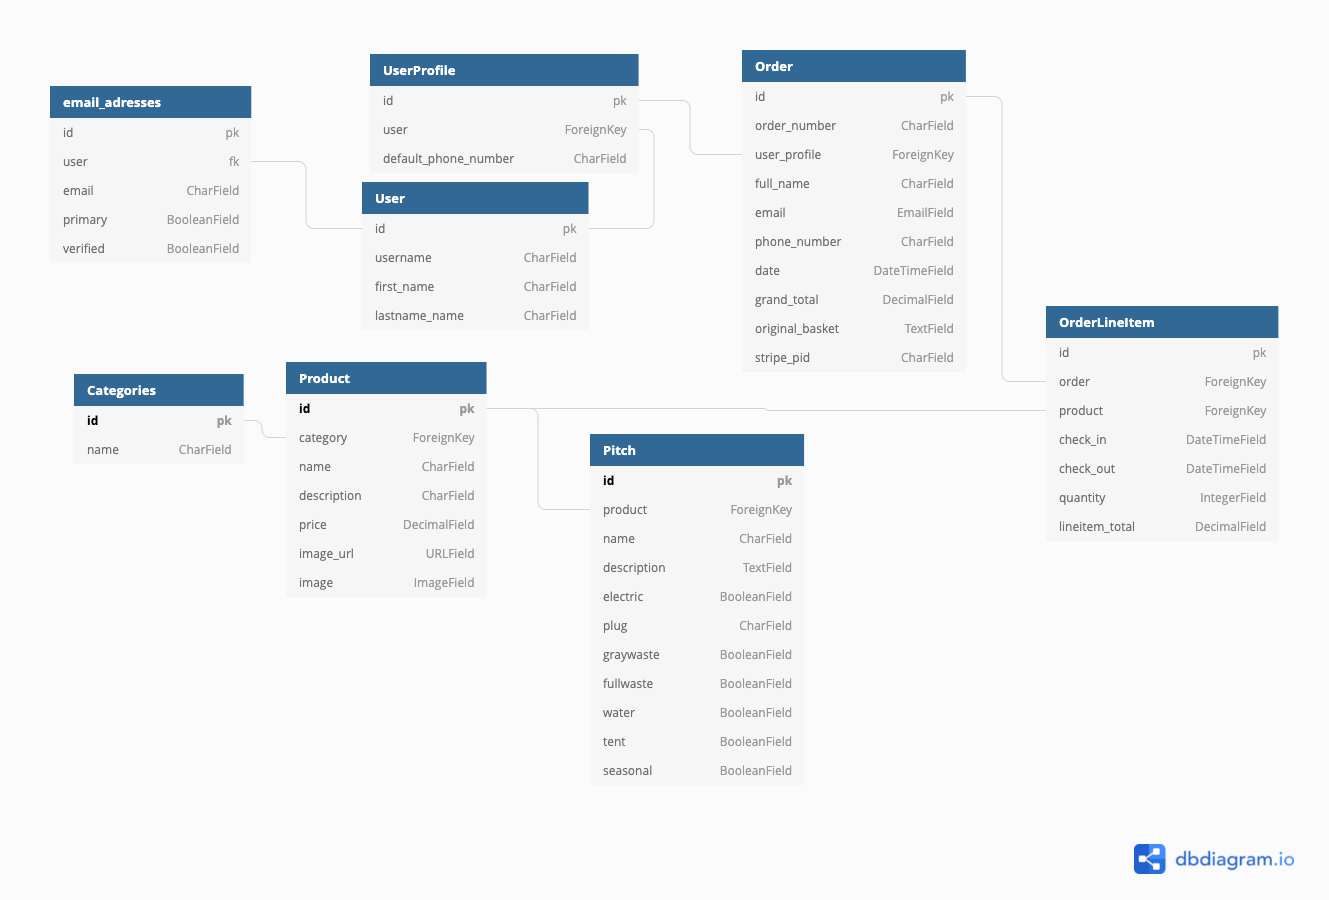
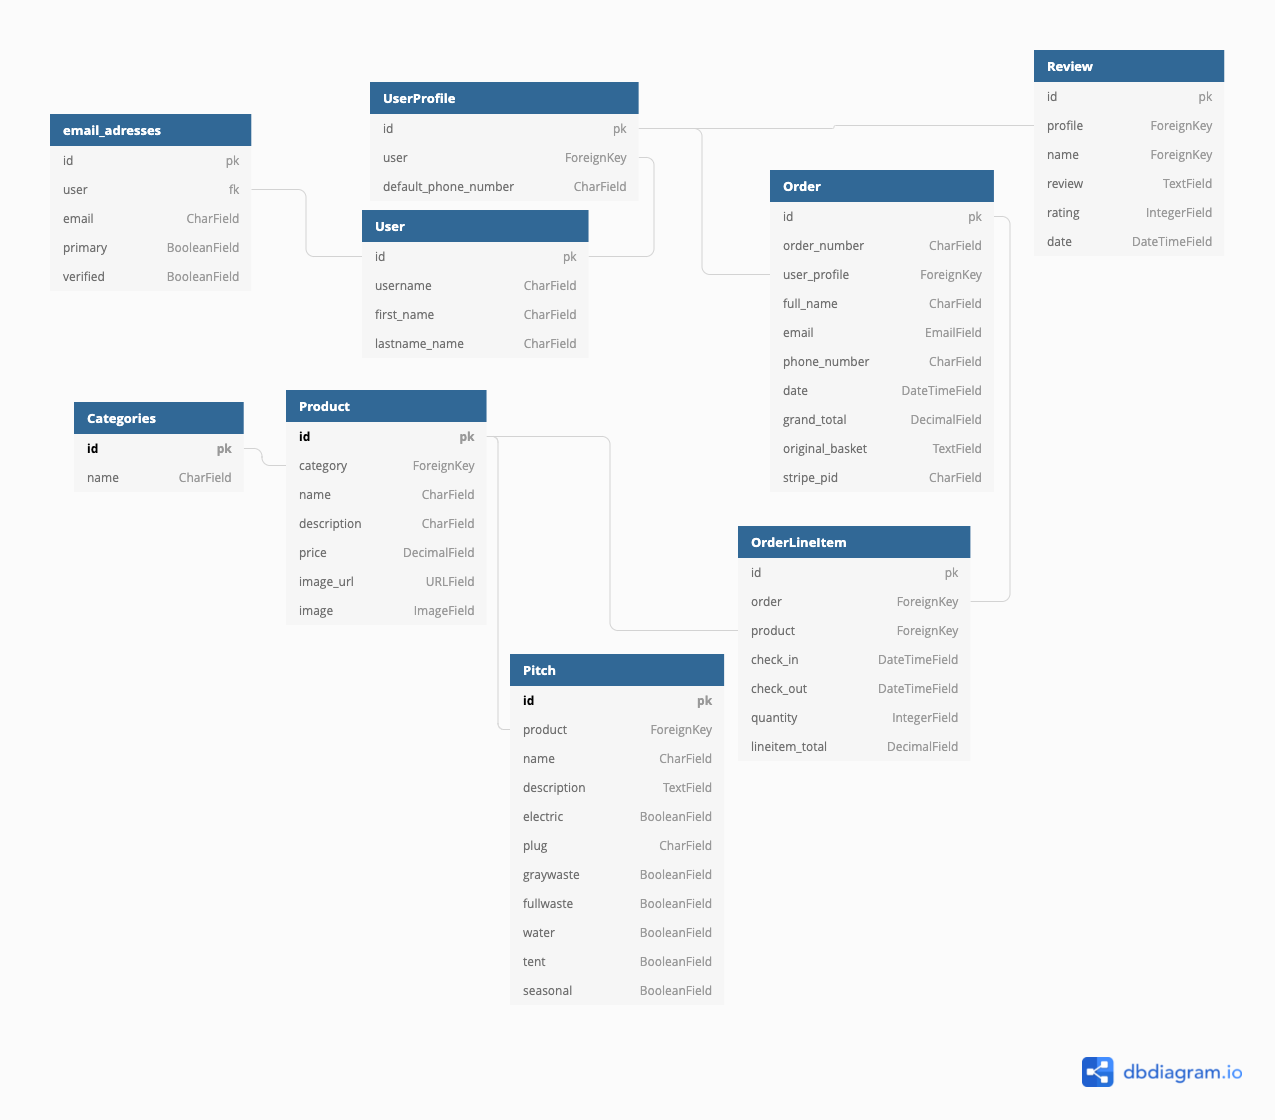
add review readme datamodel

diff --git a/README.md b/README.md
@@ -296,6 +296,19 @@ Order Line Item holds every line in each order made.
 | quantity       | integerField  | amount of pitches       |
 | lineitem_total | DecimalField  | total value of lineitem |
 
+#### Review
+
+Review holds every site reviews made by users.
+
+| field   | type         | description                 |
+| ------- | ------------ | --------------------------- |
+| \_id    | pk           | unique record id            |
+| profile | fk           | Holds profile key           |
+| name    | CharField    | Name as displayed on review |
+| review  | TextField    | Review text from user       |
+| rating  | IntegerField | Rating value                |
+| date    | CharField    | Review created date         |
+
 ## Testing
 
 [( Back to Top )](#table-of-contents)
@@ -589,7 +602,6 @@ It is possible to setup your dev environment to handle the stripe webhooks. Full
 
 ### Content
 
-- reviews https://www.kaggle.com/andrewmvd/trip-advisor-hotel-reviews & https://www.kaggle.com/soumikrakshit/anime-faces & https://www.kaggle.com/nltkdata/names
 - [crownpoint camping area map](https://crownpointcampingarea.com/PDF/CrownPointSiteMap_April2019_150_9.pdf) is used as underlaying template creating this sites interactive map.
 
 ### Media
